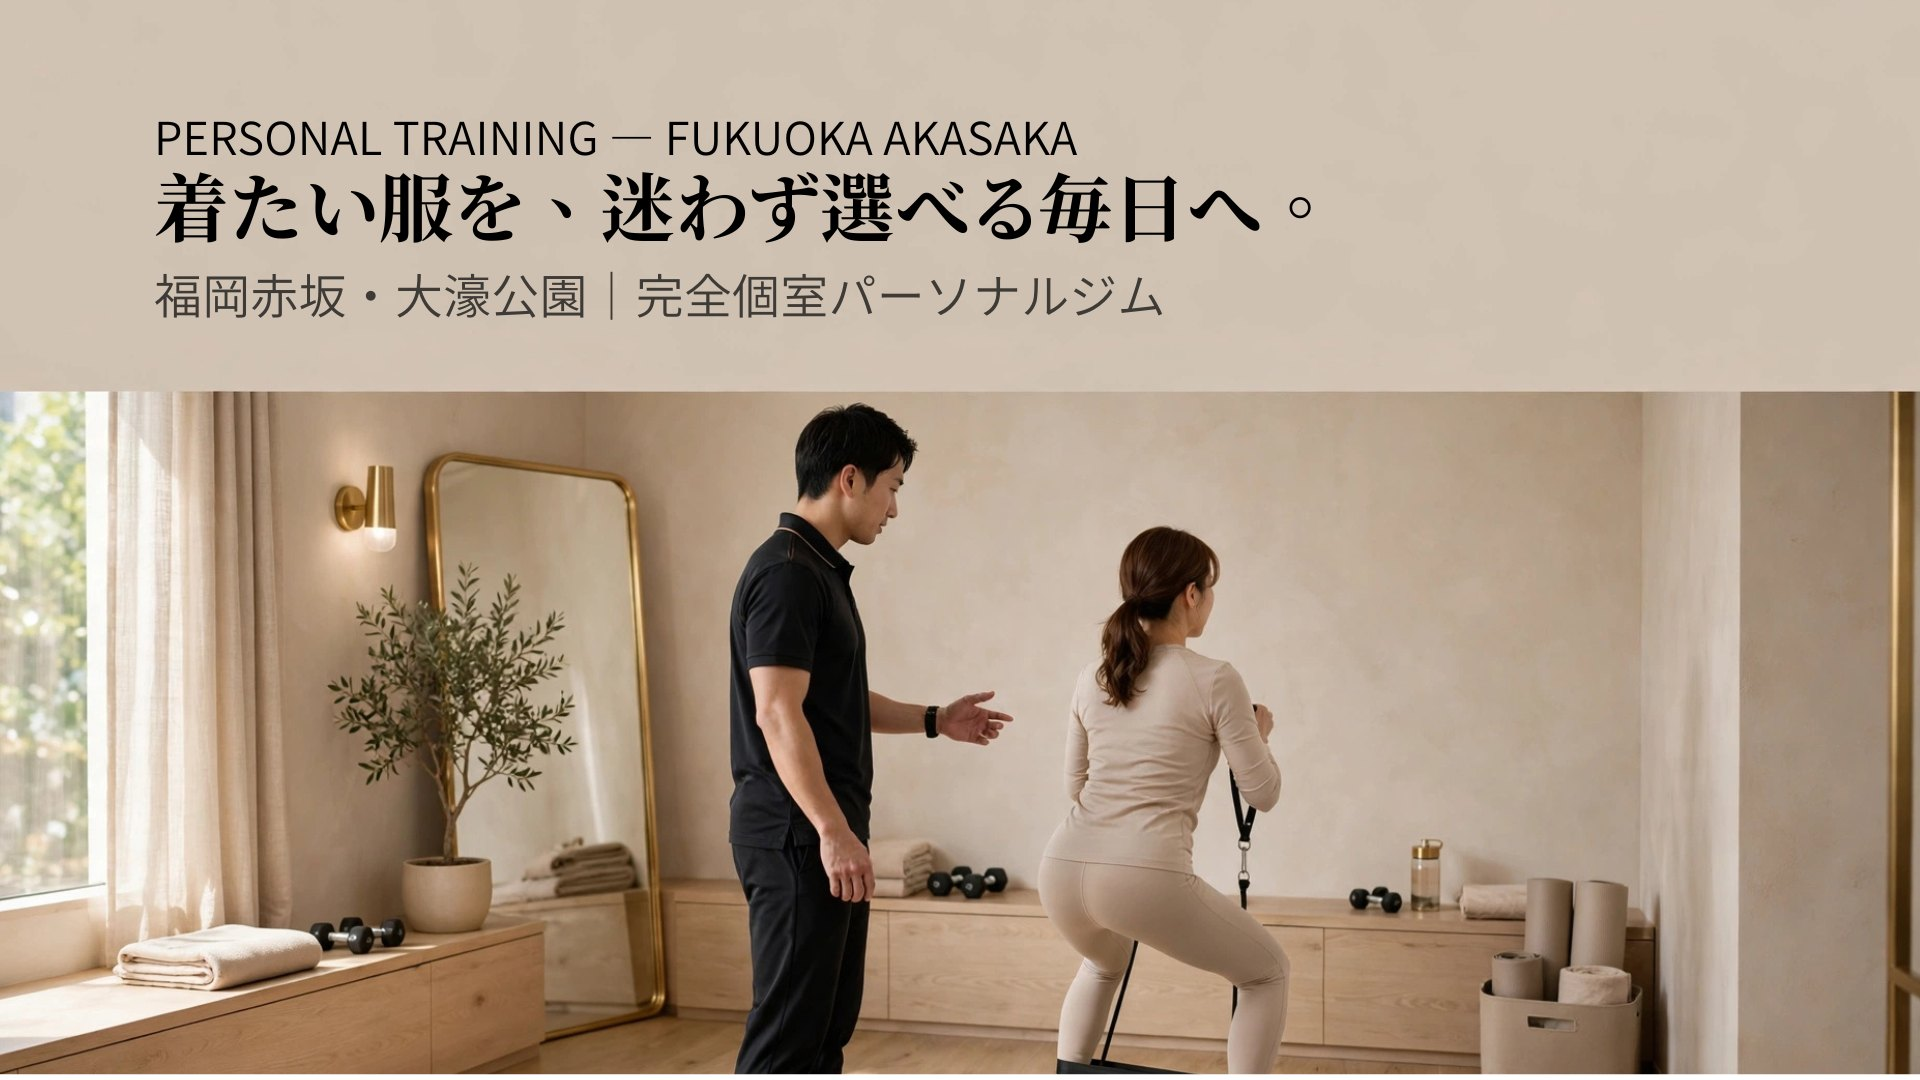
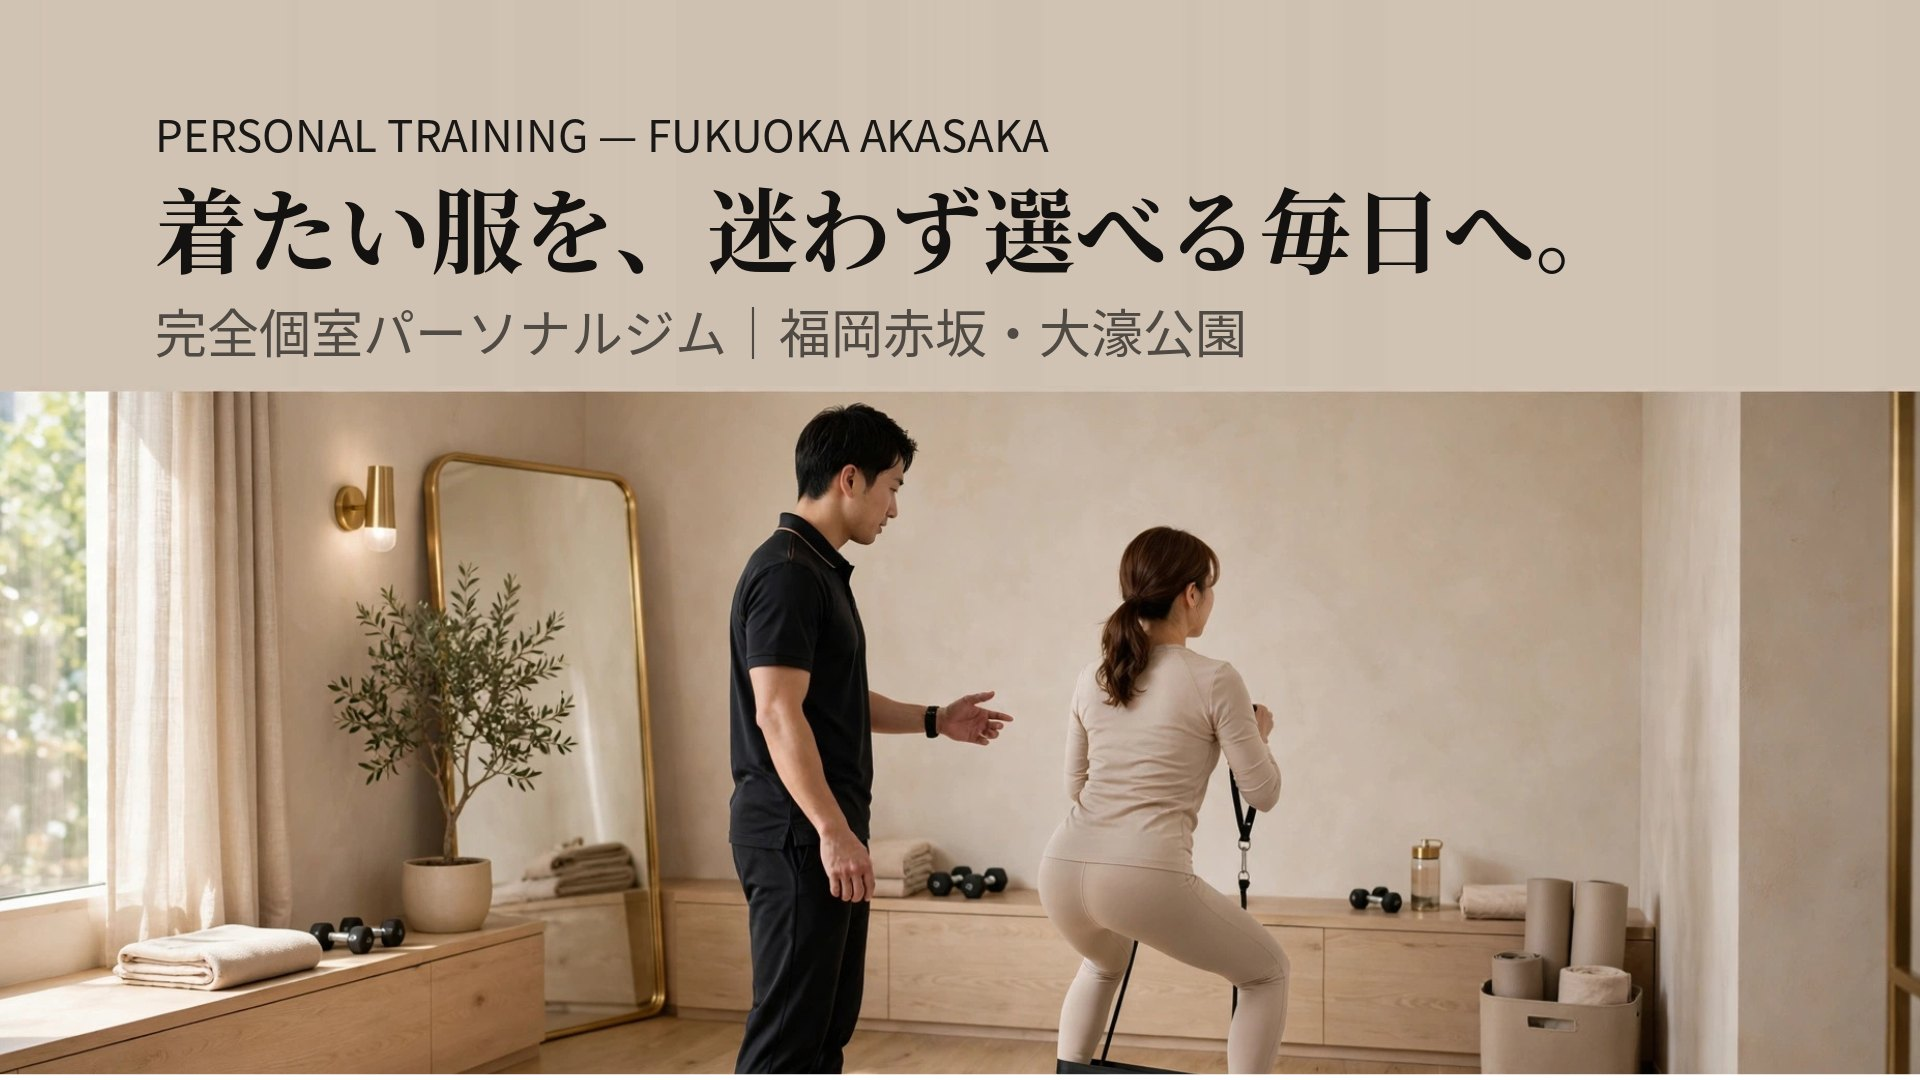
LP1: 暫定FV画像の小見出しを「完全個室パーソナルジム｜福岡赤坂・大濠公園」の語順に修正
画像上部の文字帯を描き直し（文字も約15%大きくしてスマホでの読みやすさを改善）。

Claude-Session: https://claude.ai/code/session_01TwzECQ9w9WaK7cELZ4sLdU

Changed region(s): [[0.0625, 0.0917, 0.8125, 0.3361]]

diff --git a/index.html b/index.html
@@ -828,7 +828,7 @@ footer{background:#F6EFE7!important;border-top:1px solid #EFE4D6!important}
 
 <!-- ══════════ HERO ══════════ -->
 <section class="hero" id="top">
-  <div class="hero-visual hero-ai"><picture><source srcset="images/lp1-fv-ai-v3-provisional.webp" type="image/webp"><img width="1920" height="1080" src="images/lp1-fv-ai-v3-provisional.jpg" fetchpriority="high" alt="着たい服を、迷わず選べる毎日へ。福岡赤坂・大濠公園｜完全個室パーソナルジム（イメージ）"></picture></div>
+  <div class="hero-visual hero-ai"><picture><source srcset="images/lp1-fv-ai-v3-provisional.webp" type="image/webp"><img width="1920" height="1080" src="images/lp1-fv-ai-v3-provisional.jpg" fetchpriority="high" alt="着たい服を、迷わず選べる毎日へ。完全個室パーソナルジム｜福岡赤坂・大濠公園（イメージ）"></picture></div>
   <div class="hero-ai-meta"><p class="hero-ai-note">※画像はイメージです（実際の店舗とは異なります）</p><h1 class="hero-h1 sr-only">着たい服を、<br><em>迷わず選べる</em>毎日へ。</h1><p class="hero-eyebrow">自分を好きになりたい、大人の女性のためのパーソナルジム</p><p class="hero-sub">姿勢と動きを整えて、引き締まった若々しい体を目指す。<br>福岡赤坂・大濠公園で、仕事と子育ての合間に通えます。</p></div>
   <div class="hero-bottom" style="padding-top:20px">
     <div class="wh">
